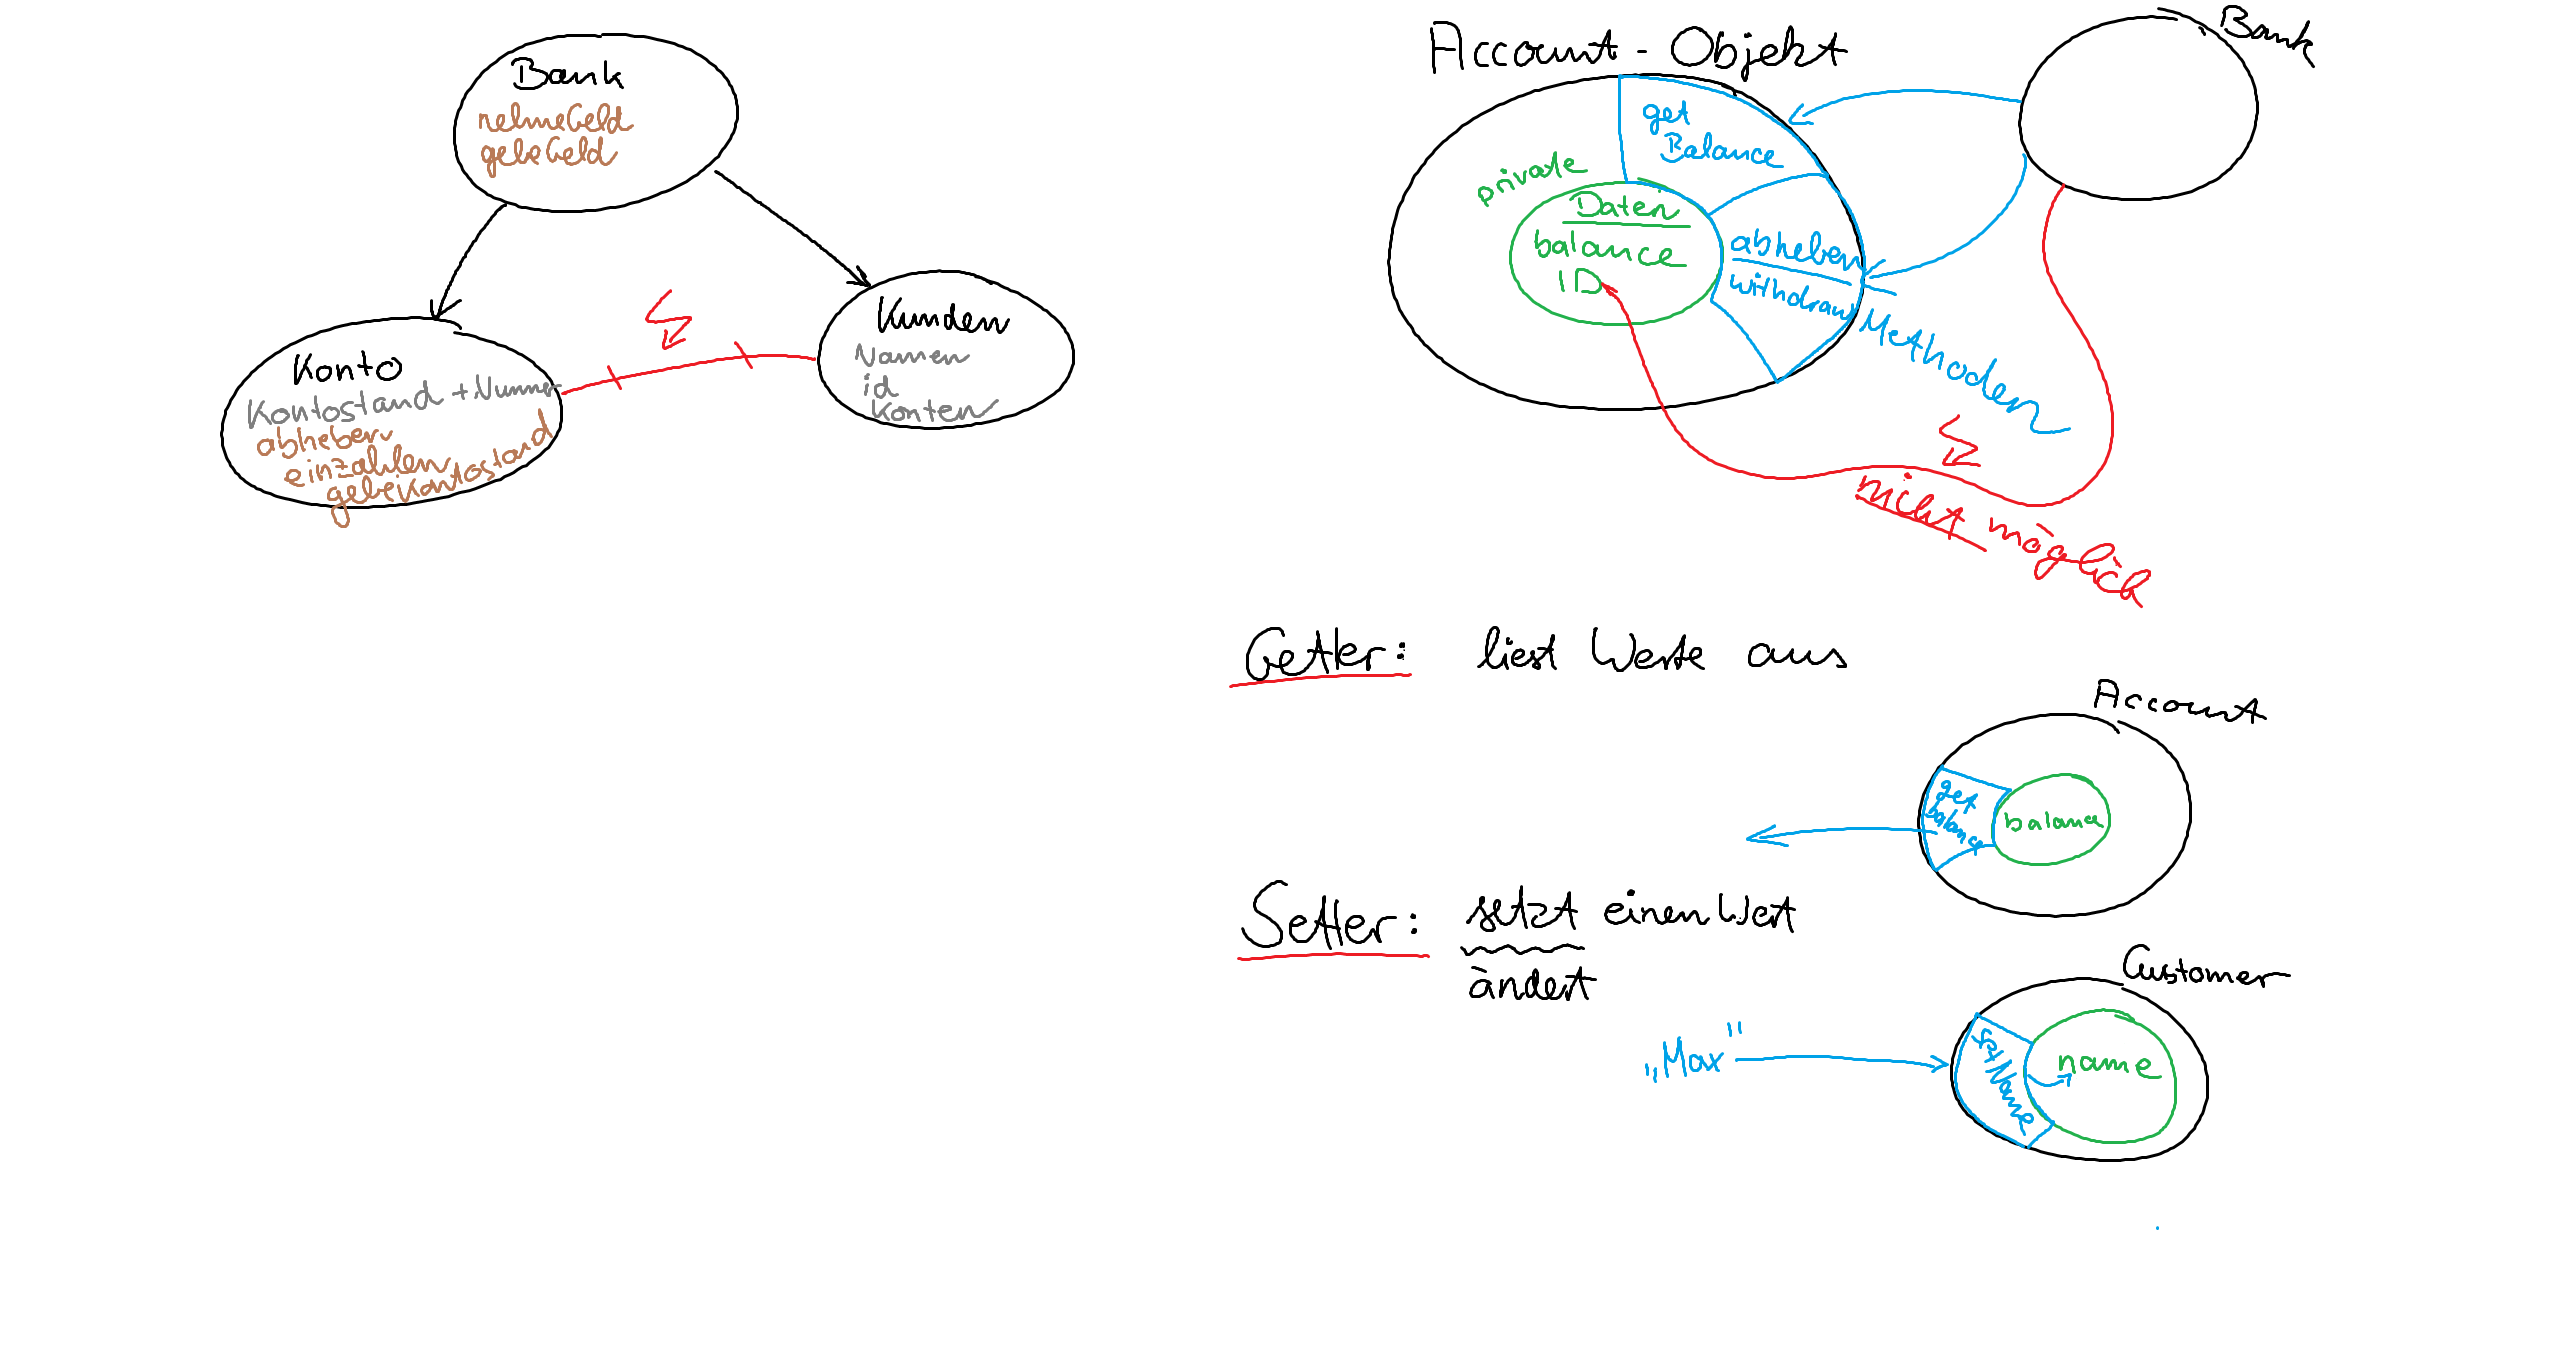
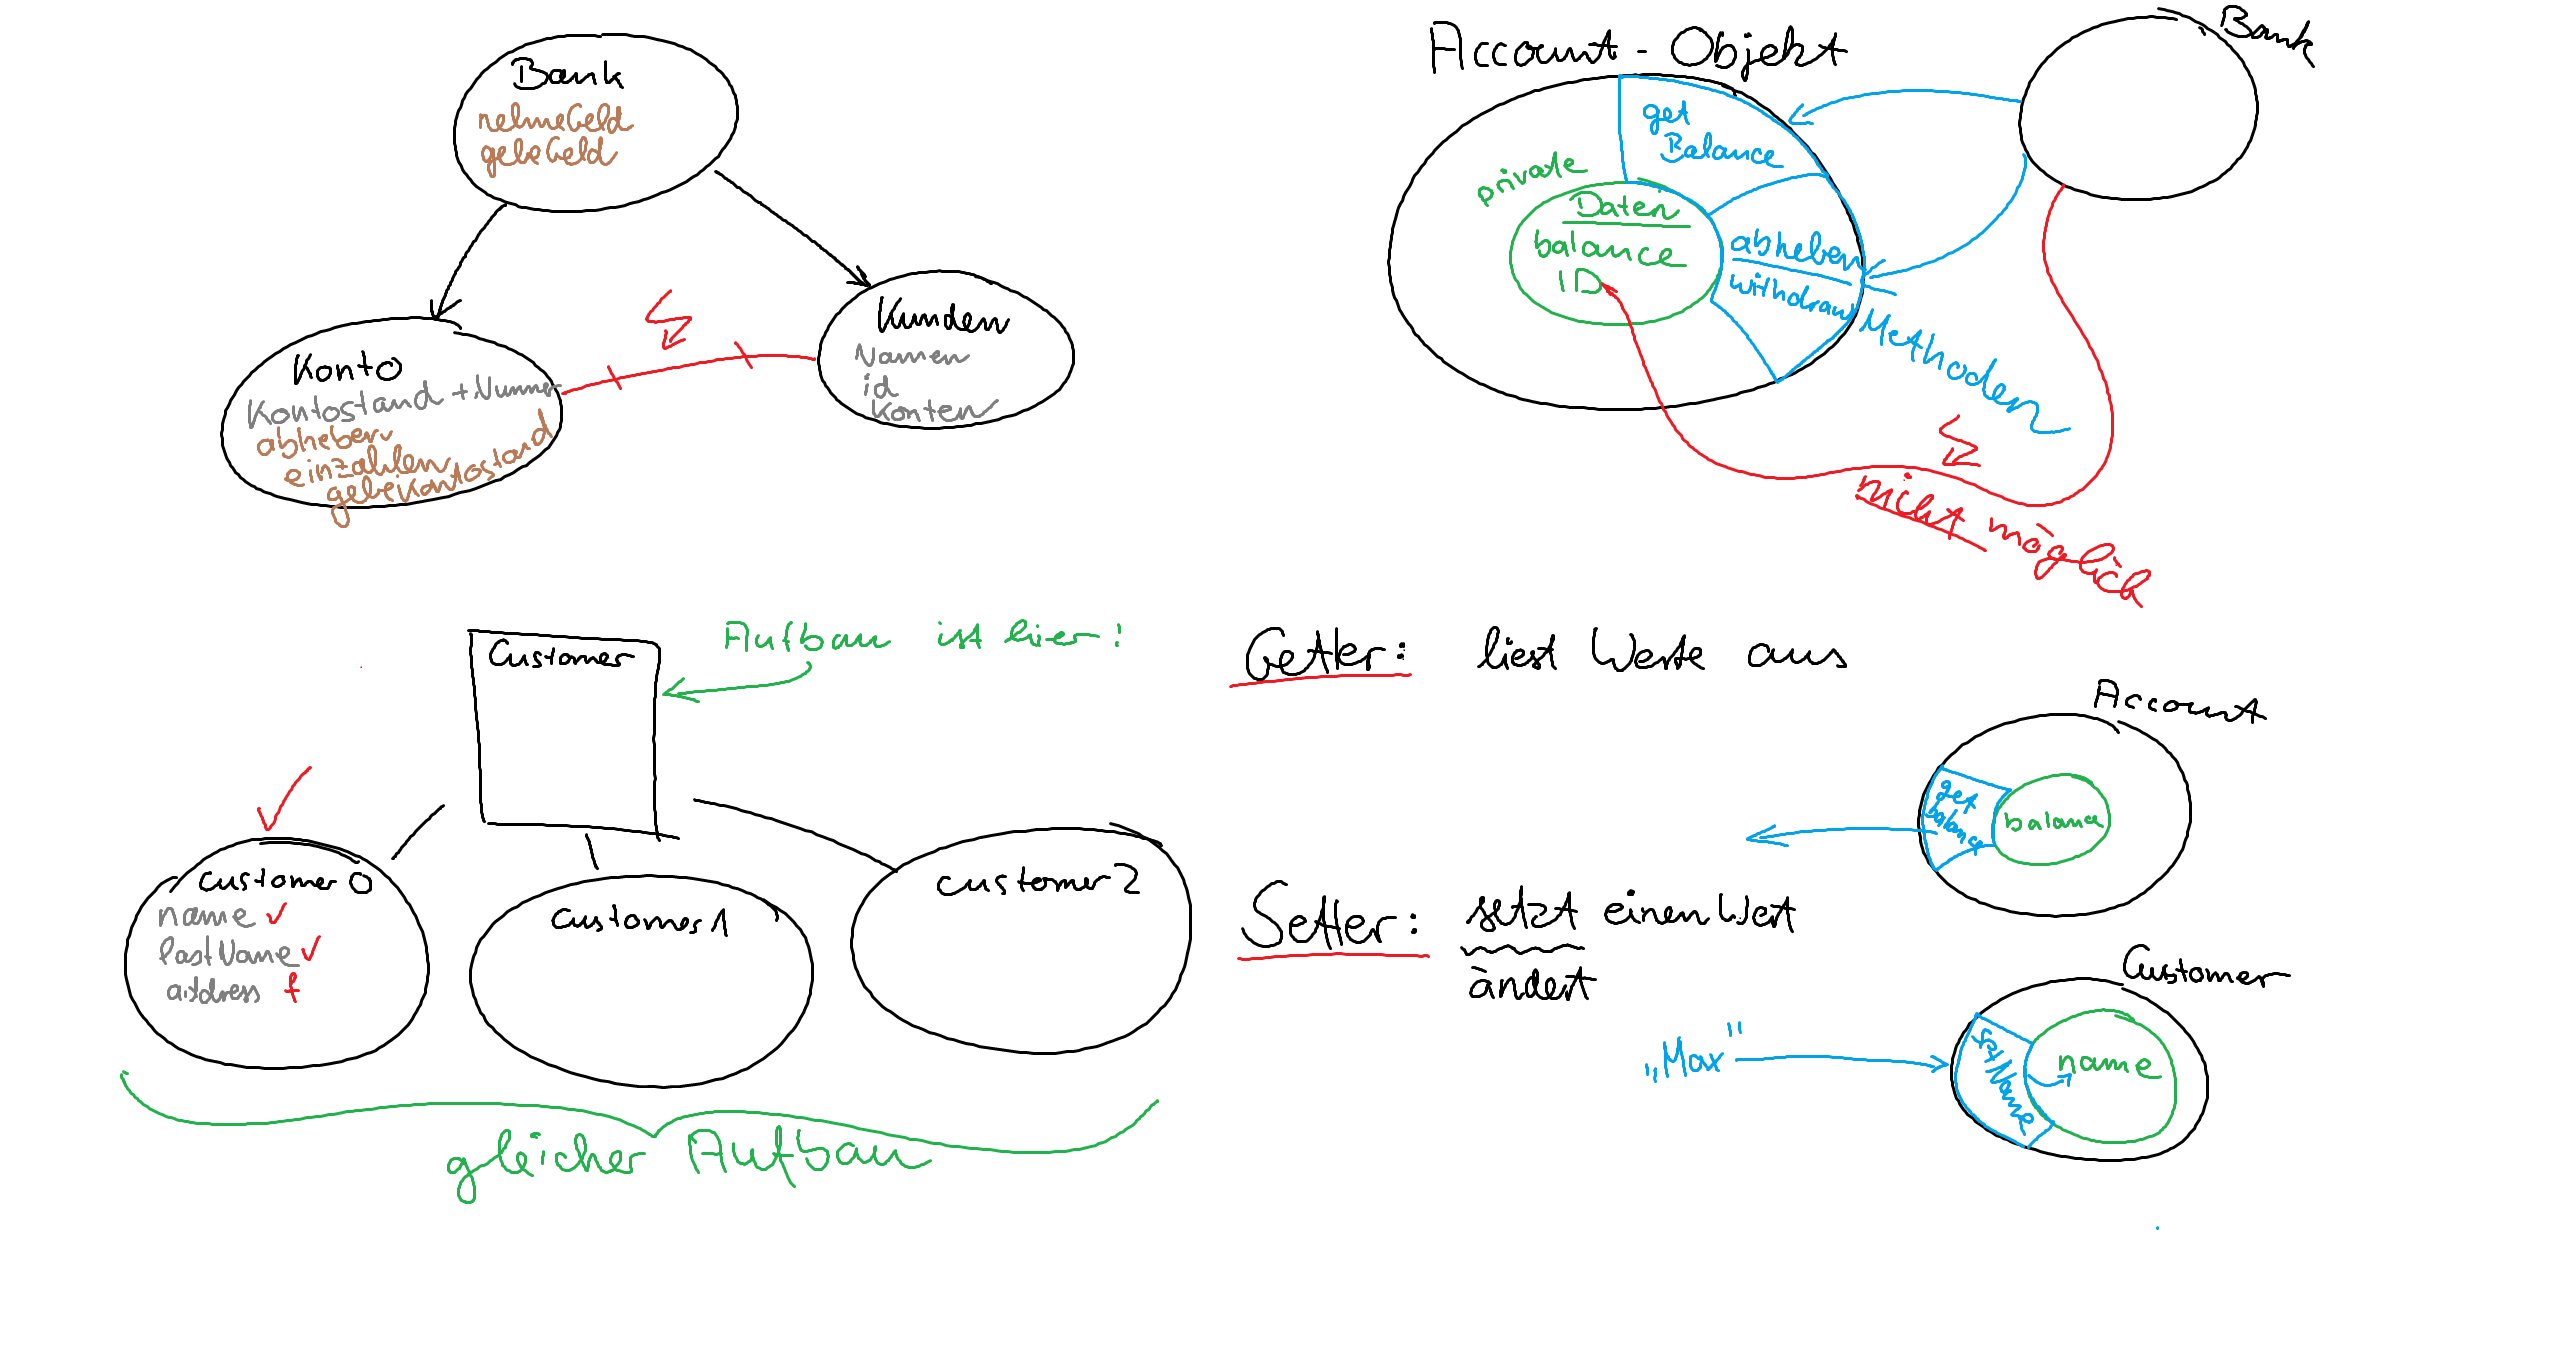
Tag 3

diff --git a/Bank/src/Bank.java b/Bank/src/Bank.java
@@ -1,32 +1,52 @@
 public class Bank {
     // Attribute
+    // Wir erinnern uns an die Deklaration von Variablen
+    // Datentyp Variablennamen
+    // Bei Objekten ist das ganz ähnlich
+    // Klassennamen Objektnamen
     // Kunde Objekt
     Customer customer0 = new Customer();
+    Customer customer1 = new Customer();
+    Customer customer2 = new Customer();
+
     // Konto Objekt
-    Account account0;
+    Account account0 = new Account();
+    Account account1 = new Account();
+    Account account2 = new Account();
 
     // Methoden
     public void start() {
         System.out.println("Comcave Bank");
 
         // Kunde geht in die Bank und eröffnet neues Konto.
-        makeNewCustomer("Max", "Mustermann", 142305);
-        makeNewAccount(0136, 142305);
+        // Kunde 0
+        makeNewCustomer(customer0,"Max", "Mustermann", 0000);
+        makeNewAccount(account0, 1000, 0000);
+        // Kunde 1
+        makeNewCustomer(customer1,"Peter", "Pan", 0001);
+        makeNewAccount(account1, 1001, 0001);
+        // Kunde 2
+        makeNewCustomer(customer2,"Martha", "Maier", 0002);
+        makeNewAccount(account2, 1002, 0002);
 
         // Kundeninfo ausgeben
         printCustomerInfo(customer0);
         printAccountInfo(account0);
+
+        printCustomerInfo(customer1);
+        printAccountInfo(account1);
+
+        printCustomerInfo(customer2);
+        printAccountInfo(account2);
     }
 
-    private void makeNewCustomer(String name, String lastName, int customerID) {
-        customer0.setName(name);
-        customer0.setLastName(lastName);
-        customer0.setCustomerID(customerID);
+    private void makeNewCustomer(Customer customer, String name, String lastName, int customerID) {
+        customer.initCustomer(name, lastName, customerID);
     }
 
-    private void makeNewAccount(int accountID, int customerID) {
-        // Konstruktor Aufruf
-        account0 = new Account(accountID, customerID);
+    private void makeNewAccount(Account account, int accountID, int customerID) {
+        // Aufruf von initAccount
+        account.initAccount(accountID, customerID);
     }
 
     private void printCustomerInfo(Customer customer) {

diff --git a/Bank/src/Customer.java b/Bank/src/Customer.java
@@ -10,6 +10,13 @@ public class Customer {
     private String street;
     private int houseNumber;
 
+    // Init Customer
+    public void initCustomer(String name, String lastName, int customerID) {
+        this.name = name;
+        this.lastName = lastName;
+        this.customerID = customerID;
+    }
+
     // Getter
     public String getName() {
         return name;

diff --git a/Bank/src/Account.java b/Bank/src/Account.java
@@ -7,8 +7,8 @@ public class Account {
     // Kundenummer
     private int customerID;
 
-    // Konstruktor
-    public Account(int accountID, int customerID) {
+    // InitAccount
+    public void initAccount(int accountID, int customerID) {
         this.accountID = accountID;
         this.customerID = customerID;
     }

diff --git a/Zusammenfassung/Zusammenfassung.md b/Zusammenfassung/Zusammenfassung.md
@@ -48,16 +48,27 @@ System.out.println(derDurchschnitt.gebeText());
 Werden verwendet, um den Zugriff auf Daten und Methoden zu beschränken.
 ### private
 Alles was private deklariert ist, ist von außerhalb der Klasse NICHT sichtbar. <br>
-Wenn wir dennoch Zugriff wollen, müssen wir getter oder setter definieren. 
+Wenn wir dennoch Zugriff wollen, müssen wir getter oder setter definieren. <br>
+Attribute (unsere Daten) deklariern wir IMMER als private.
 
 ### public
+Alles was public deklariert ist, ist von außerhalb der Klasse SICHTBAR. <br>
+Methoden, die von außen (von anderen Objekten aus) nutzbar sein sollen, werden als public deklariert.
+
 ### protected
 Wird noch ergänzt
 
 ## Getter und Setter
 ### Getter
+Wird verwendet, um ein privates Attribut auszulesen. <br>
+Gibt also den Wert des Attributs (der Daten) zurück.
 ### Setter
+Wird verwendet, um ein privates Attribut zu verändern. <br>
+Speichert also einen neuen Wert im Attribut ab.
 
 ## Konstruktor
+Wird genutzt, um Objekte zu erzeugen. <br>
+Kann genutzt werden, um Daten zu initialisieren. <br>
+MUSS public sein und MUSS immer wie die Klasse heißen.
 
 ## Methodenaufruf mit Objektübergabe
